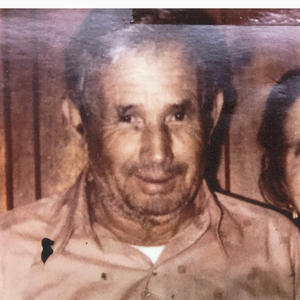
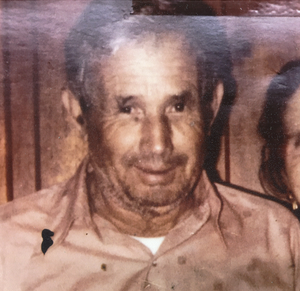
edited maximiliano photo and added gallery.js

diff --git a/assets/css/style.css b/assets/css/style.css
@@ -1,3 +1,7 @@
+html {
+  scroll-behavior: smooth;
+}
+
 header {
   text-align: center;
 }
@@ -5,6 +9,25 @@ header {
 header h1,
 p {
   font-size: 3vw;
+}
+
+body {
+  background-color: green;
+}
+
+img {
+  margin-left: auto;
+  margin-right: auto;
+  border-radius: 30px;
+}
+
+img:hover {
+  /* filter: opacity(70%); */
+  filter: brightness(.75);
+}
+
+a:hover {
+  color: black;
 }
 
 .mainPics {
@@ -26,11 +49,6 @@ p {
 
 .mainPics h3 {
   color: rgb(87, 87, 87);
-}
-
-.mainPics img {
-  margin-left: auto;
-  margin-right: auto;
 }
 
 .altPics {
@@ -55,12 +73,6 @@ p {
 .altPics img {
   display: block;
   width: 12vw;
-  margin-left: auto;
-  margin-right: auto;
-}
-
-.altPics img:hover {
-  : rgba(219, 219, 219, 0.8);
 }
 
 .profile {
@@ -70,10 +82,6 @@ p {
 
 #topBtn:hover {
   background-color: #555;
-}
-
-html {
-  scroll-behavior: smooth;
 }
 
 .button {

diff --git a/assets/css/gallery.css b/assets/css/gallery.css
@@ -3,28 +3,6 @@ p {
   font-size: 2vw;
 }
 
-button {
-    border: 1px solid darkgray;
-    border-radius: 15px;
-    text-align: center;
-    height: 5vh;
-    font-size: large;
-}
-
-button:hover {
-    border: 1px solid black;
-    background-color: darkgray;
-}
-
-.button {
-    display: flex;
-    justify-content: center;
-}
-
-.button a {
-    margin: 5px;
-}
-
 .galleryTitle {
     display: flex;
     font-size: 4vw;
